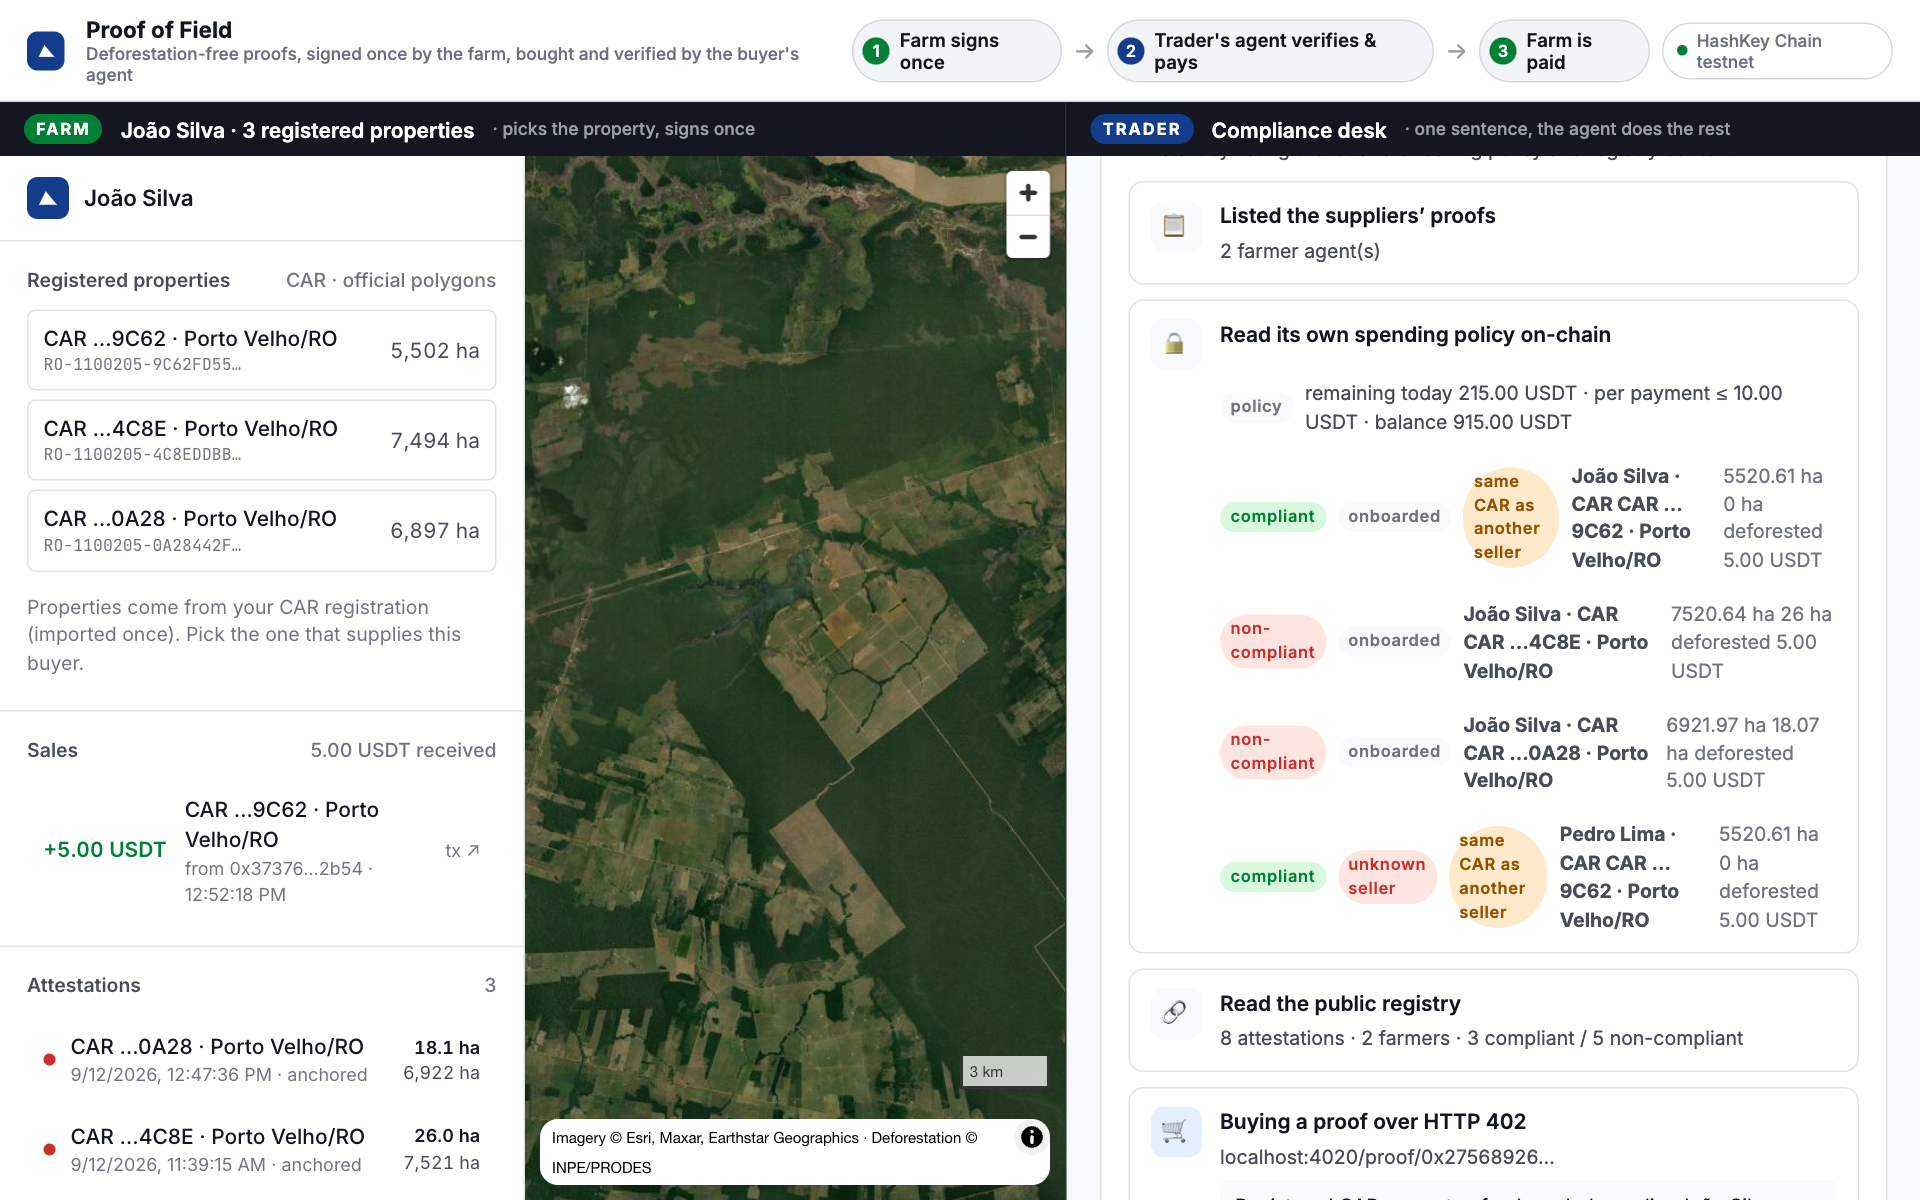
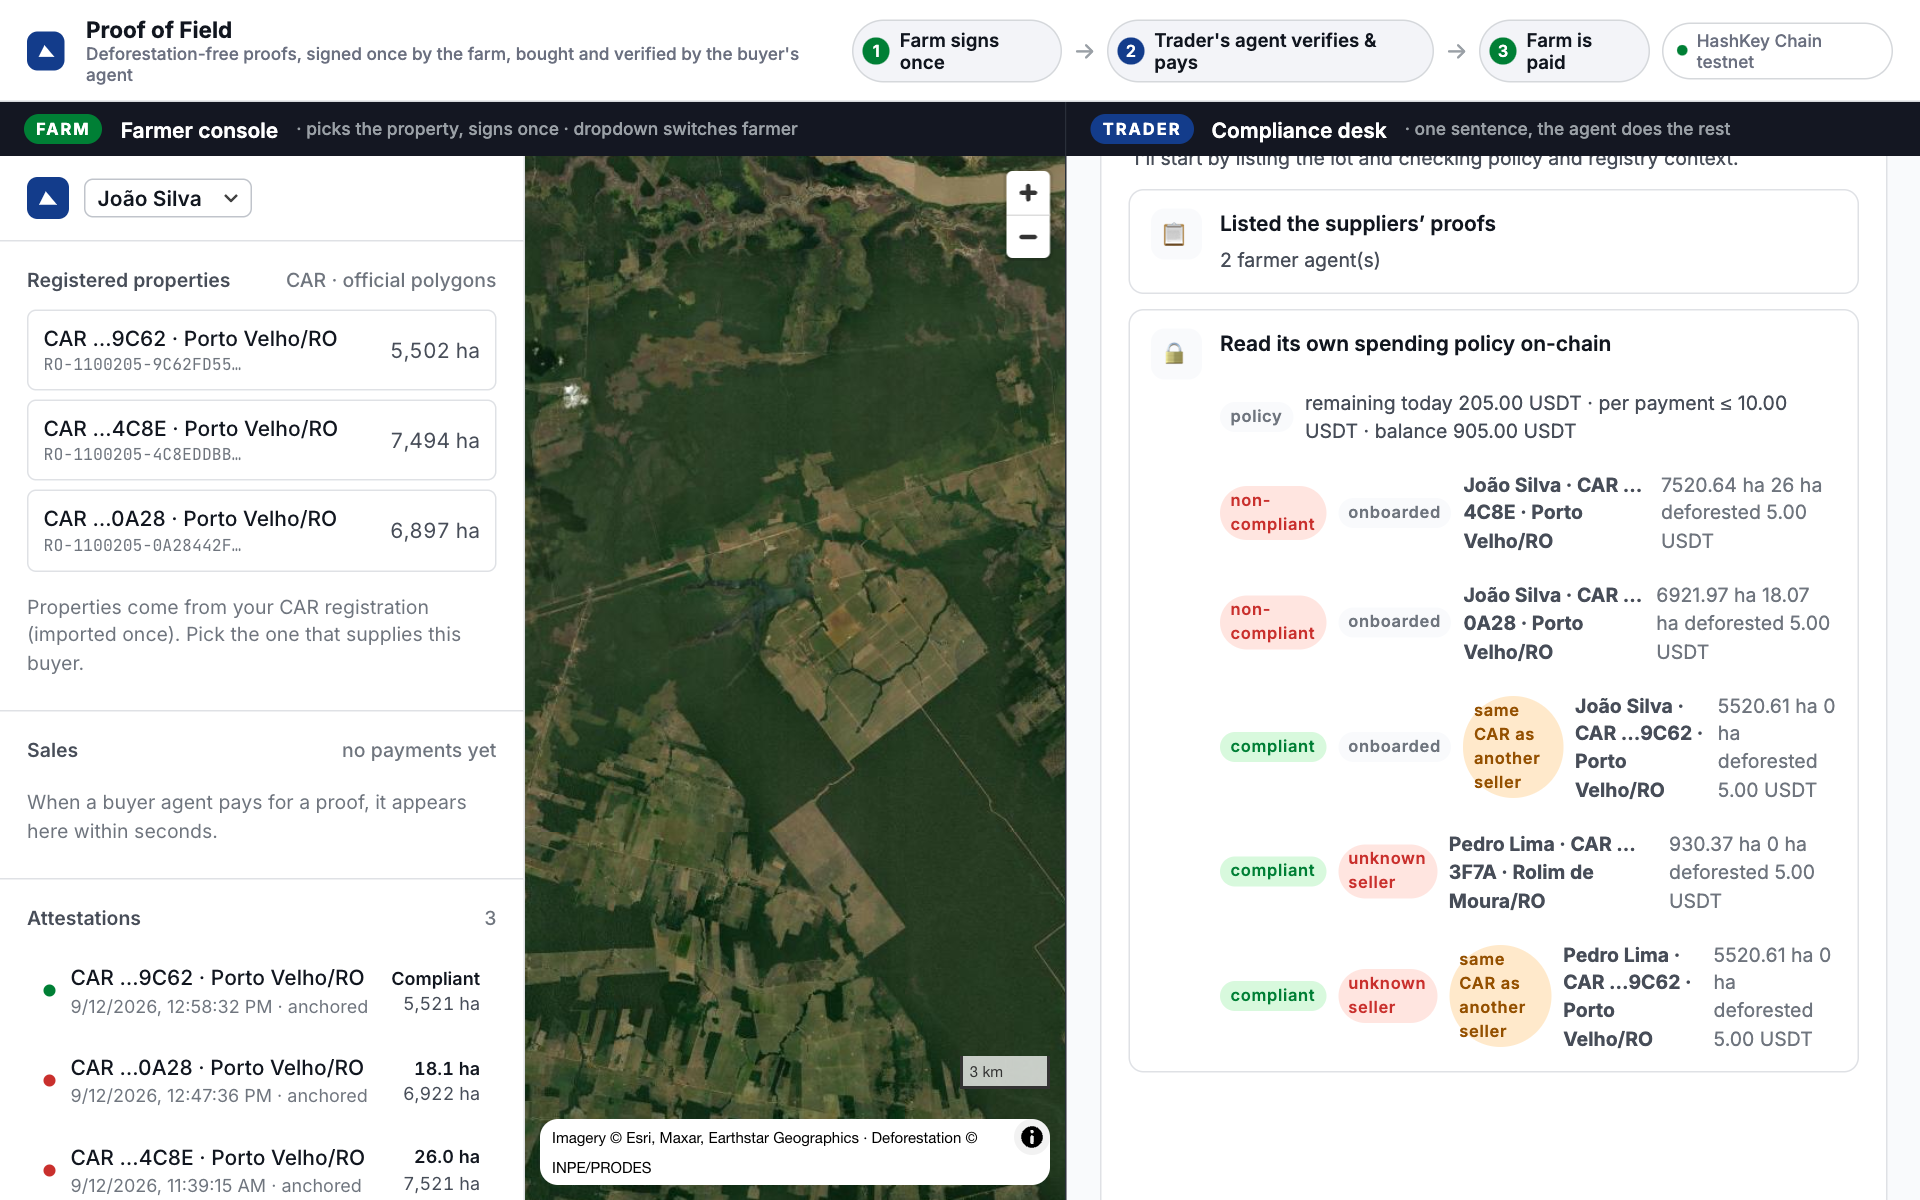
Pedro has his own (simulated) property; per-property selection in the buyer desk; latest attestation per property supersedes older listings

diff --git a/apps/buyer-agent/src/desk.ts b/apps/buyer-agent/src/desk.ts
@@ -30,9 +30,10 @@ app.get('/reports/latest', (c) => {
 app.get('/run', (c) => {
   const instruction = c.req.query('q') || '';
   const lot = (c.req.query('lot') || DEFAULT_LOT.join(',')).split(',').map((s) => s.trim()).filter(Boolean);
+  const only = (c.req.query('only') || '').split(',').map((s) => s.trim()).filter(Boolean);
   const before = fs.existsSync(REPORTS) ? new Set(fs.readdirSync(REPORTS)) : new Set<string>();
   return streamSSE(c, async (stream) => {
-    const child = spawn('npx', ['tsx', 'src/agent.ts', instruction, ...lot], { cwd: path.join(ROOT, 'apps', 'buyer-agent'), env: { ...process.env, NETWORK, FORCE_COLOR: '0' } });
+    const child = spawn('npx', ['tsx', 'src/agent.ts', instruction, ...lot], { cwd: path.join(ROOT, 'apps', 'buyer-agent'), env: { ...process.env, NETWORK, FORCE_COLOR: '0', ONLY_PROOFS: only.join(',') } });
     const send = (line: string) => stream.writeSSE({ event: 'log', data: JSON.stringify(strip(line)) });
     let buf = '';
     const onData = (d: Buffer) => { buf += d.toString(); const lines = buf.split('\n'); buf = lines.pop() || ''; lines.forEach((l) => send(l)); };
@@ -62,6 +63,14 @@ textarea{width:100%;min-height:74px;resize:vertical;border:1px solid var(--line-
 textarea:focus{outline:2px solid var(--primary);outline-offset:1px;border-color:transparent}
 .lot{display:flex;flex-wrap:wrap;gap:8px;margin-top:12px}.lot label{display:inline-flex;align-items:center;gap:7px;background:var(--panel);border:1px solid var(--line);border-radius:8px;padding:7px 11px;cursor:pointer;font-size:13.5px}.lot label b{font-weight:600}.lot label small{font-family:var(--mono);font-size:11px;color:var(--ink-3)}.lot input{margin:0;accent-color:var(--primary)}.lot .off{color:var(--bad);font-size:11px}
 .lot-h{font-size:12.5px;color:var(--ink-3);margin-top:12px}
+.sup{border:1px solid var(--line);border-radius:10px;padding:10px 12px;min-width:260px;flex:1}
+.sup .sh{display:flex;align-items:center;gap:8px;font-weight:600}.sup .sh small{font-family:var(--mono);font-size:11px;color:var(--ink-3);font-weight:400}
+.sup .props{display:flex;flex-direction:column;gap:5px;margin-top:8px;padding-left:2px}
+.sup .pr{display:flex;align-items:center;gap:8px;font-size:13px;color:var(--ink-2);cursor:pointer}
+.sup .pr input{margin:0;accent-color:var(--primary)}
+.sup .pill{font-size:10.5px;font-weight:600;letter-spacing:.04em;padding:1px 6px;border-radius:999px}
+.sup .pill.ok{background:var(--ok-soft);color:var(--ok)}.sup .pill.bad{background:var(--bad-soft);color:var(--bad)}
+.sup .off{color:var(--bad);font-size:11px}
 .row{display:flex;gap:10px;align-items:center;margin-top:12px}
 .btn{height:38px;padding:0 16px;border-radius:6px;border:1px solid transparent;background:var(--primary);color:#fff;font:500 14px Inter,system-ui,sans-serif;cursor:pointer}.btn:hover{background:var(--primary-hover)}.btn:disabled{opacity:.5;cursor:not-allowed}
 .hint{color:var(--ink-3);font-size:12.5px}
@@ -93,7 +102,7 @@ textarea:focus{outline:2px solid var(--primary);outline-offset:1px;border-color:
 <div class="wrap">
   <div class="card"><h2>Instruction to the buyer agent</h2>
     <textarea id="q">Verify these suppliers before we contract the harvest. Budget 30 USDT. Reject deforestation after 2020 or protected land.</textarea>
-    <div class="lot-h">Suppliers to verify (onboarded agents; tick who you want checked this run):</div>
+    <div class="lot-h">Suppliers and their properties (tick exactly what you want verified this run):</div>
     <div class="lot" id="lot"></div>
     <div class="row"><button class="btn" id="run">Run agent</button><span class="hint">Lists the suppliers, checks its own spending policy, buys and verifies each proof, writes the dossier. ~70 s.</span></div>
   </div>
@@ -106,9 +115,14 @@ textarea:focus{outline:2px solid var(--primary);outline-offset:1px;border-color:
 <script>
 const $=id=>document.getElementById(id);
 fetch('/config').then(r=>r.json()).then(async c=>{$('chip').textContent=c.network;window.__lot=c.lot;
- const items=await Promise.all(c.lot.map(async u=>{try{const i=await fetch(u+'/',{signal:AbortSignal.timeout(3000)}).then(r=>r.json());return {u,name:i.name||u,farmer:i.farmer,n:i.attestations};}catch{return {u,name:u,off:true};}}));
- $('lot').innerHTML=items.map(i=>'<label><input type="checkbox" value="'+i.u+'" '+(i.off?'':'checked')+'/> <b>'+i.name+'</b> <small>'+(i.farmer?i.farmer.slice(0,6)+'…'+i.farmer.slice(-4):i.u)+'</small>'+(i.off?' <span class="off">offline</span>':'')+'</label>').join('');});
-function selectedLot(){return [...document.querySelectorAll('#lot input:checked')].map(i=>i.value);}
+ const items=await Promise.all(c.lot.map(async u=>{try{const i=await fetch(u+'/',{signal:AbortSignal.timeout(3000)}).then(r=>r.json());const a=await fetch(u+'/attestations',{signal:AbortSignal.timeout(3000)}).then(r=>r.json());return {u,name:i.name||u,farmer:i.farmer,props:a};}catch{return {u,name:u,off:true,props:[]};}}));
+ $('lot').innerHTML=items.map(i=>'<div class="sup" data-u="'+i.u+'"><label class="sh"><input type="checkbox" class="supcb" '+(i.off?'':'checked')+'/> '+i.name+' <small>'+(i.farmer?i.farmer.slice(0,6)+'…'+i.farmer.slice(-4):'')+'</small>'+(i.off?' <span class="off">offline</span>':'')+'</label><div class="props">'+
+   (i.props.length?i.props.map(p=>'<label class="pr"><input type="checkbox" class="prcb" value="'+i.u+'/proof/'+p.hash+'" '+(i.off?'':'checked')+'/> '+(p.label||p.hash.slice(0,10))+' <span class="pill '+(p.compliant?'ok':'bad')+'">'+(p.compliant?'clean':(p.report&&p.report.deforestedHa?p.report.deforestedHa.toFixed(0)+' ha cleared':'non-compliant'))+'</span></label>').join(''):'<span class="off">no proofs offered</span>')+'</div></div>').join('');
+ document.querySelectorAll('.supcb').forEach(cb=>cb.addEventListener('change',e=>{e.target.closest('.sup').querySelectorAll('.prcb').forEach(x=>x.checked=e.target.checked);}));
+ document.querySelectorAll('.prcb').forEach(cb=>cb.addEventListener('change',e=>{const sup=e.target.closest('.sup');sup.querySelector('.supcb').checked=[...sup.querySelectorAll('.prcb')].some(x=>x.checked);}));
+});
+function selectedProofs(){return [...document.querySelectorAll('#lot .prcb:checked')].map(i=>i.value);}
+function selectedLot(){return [...new Set(selectedProofs().map(v=>v.split('/proof/')[0]))];}
 function cls(l){if(/^\\s*⚙/.test(l))return 't';if(/✔/.test(l))return 'ok';if(/✘|NON-COMPLIANT|UNKNOWN/.test(l))return 'bad';if(/^\\s{4,}/.test(l))return 'dim';return 'say';}
 
 $('rawt').onclick=()=>{const h=$('log').hidden;$('log').hidden=!h;$('rawt').textContent=h?'Hide raw agent log':'Show raw agent log';};
@@ -142,8 +156,8 @@ function handle(l){
   if(/^\\*\\*|^-\\s|^\\d\\.\\s|^#|^📊|^✔/.test(t)) return;
   const d=document.createElement('div');d.className='say';d.textContent=t;$('tl').appendChild(d);cur=null;
 }
-$('run').onclick=()=>{const q=$('q').value.trim();if(!q)return;const lot=selectedLot();if(!lot.length){alert('Tick at least one supplier');return;}$('run').disabled=true;$('logcard').hidden=false;$('repcard').hidden=true;$('log').textContent='';$('tl').innerHTML='';cur=null;$('st').innerHTML='<span class="spin"></span>Agent working…';
- const es=new EventSource('/run?q='+encodeURIComponent(q)+'&lot='+encodeURIComponent(lot.join(',')));
+$('run').onclick=()=>{const q=$('q').value.trim();if(!q)return;const lot=selectedLot();if(!lot.length){alert('Tick at least one property');return;}$('run').disabled=true;$('logcard').hidden=false;$('repcard').hidden=true;$('log').textContent='';$('tl').innerHTML='';cur=null;$('st').innerHTML='<span class="spin"></span>Agent working…';
+ const es=new EventSource('/run?q='+encodeURIComponent(q)+'&lot='+encodeURIComponent(lot.join(','))+'&only='+encodeURIComponent(selectedProofs().join(',')));
  es.addEventListener('log',e=>{const l=JSON.parse(e.data);if(!l.trim())return;const d=document.createElement('div');d.className=cls(l);d.textContent=l;$('log').appendChild(d);$('log').scrollTop=$('log').scrollHeight;try{handle(l);}catch(err){}});
  es.addEventListener('done',e=>{es.close();$('run').disabled=false;$('st').textContent='Done';const {report}=JSON.parse(e.data);
    const txt=$('log').textContent;const m=txt.match(/(\\d+) bought · (\\d+) skipped · ([\\d.]+) USDT spent/);
@@ -181,7 +195,7 @@ iframe{border:0;width:100%;height:100%;background:#fff}
 <div class="top"><div class="logo"><svg width="14" height="14" viewBox="0 0 16 16" fill="none"><path d="M2 12.5 6.5 3.5 14 12.5Z" fill="#fff"/></svg></div>
 <div class="name">Proof of Field<small>Deforestation-free proofs, signed once by the farm, bought and verified by the buyer's agent</small></div>
 <div class="steps"><span class="st ok"><i>1</i>Farm signs once</span><span class="arrow">→</span><span class="st"><i>2</i>Trader's agent verifies &amp; pays</span><span class="arrow">→</span><span class="st ok"><i>3</i>Farm is paid</span><span class="net"><b></b>HashKey Chain testnet</span></div></div>
-<div class="hdr farm"><span class="tag">FARM</span>João Silva · 3 registered properties <small>· picks the property, signs once</small></div>
+<div class="hdr farm"><span class="tag">FARM</span>Farmer console <small>· picks the property, signs once · dropdown switches farmer</small></div>
 <div class="hdr trader"><span class="tag">TRADER</span>Compliance desk <small>· one sentence, the agent does the rest</small></div>
 <div class="pane farm"><iframe src="http://localhost:5173" title="Farmer console"></iframe></div>
 <div class="pane"><iframe src="http://localhost:4030" title="Buyer desk"></iframe></div>

diff --git a/apps/buyer-agent/src/agent.ts b/apps/buyer-agent/src/agent.ts
@@ -39,7 +39,9 @@ const tools = [
     inputSchema: z.object({ farmerAgentUrls: z.array(z.string()).describe('Base URLs of the farmer agents in the lot') }),
     run: async ({ farmerAgentUrls }) => {
       tool('list_lot', `${farmerAgentUrls.length} farmer agent(s)`);
-      const { proofs, unreachable } = await listLot(farmerAgentUrls);
+      let { proofs, unreachable } = await listLot(farmerAgentUrls);
+      const only = (process.env.ONLY_PROOFS || '').split(',').map((x) => x.trim()).filter(Boolean);
+      if (only.length) proofs = proofs.filter((p) => only.includes(p.proofUrl));
       proofs.forEach((p) => dim(`      ${p.compliant ? 'COMPLIANT    ' : 'NON-COMPLIANT'} ${p.knownSupplier ? 'known   ' : 'UNKNOWN '}${p.carConflict ? 'CAR-CONFLICT ' : ''}${p.farmerName} · ${p.registered ? '' : 'unregistered '}${p.label || p.hash.slice(0, 12)}  ${p.areaHa} ha  ${p.deforestedHa} ha deforested  ${usdt(p.priceUnits)}`));
       unreachable.forEach((u) => console.log(pc.red(`      ✘ unreachable: ${u}`)));
       return JSON.stringify({ proofs: proofs.map((p) => ({ ...p, price: usdt(p.priceUnits) })), unreachable });
@@ -131,7 +133,7 @@ const runner = client.beta.messages.toolRunner({
   max_tokens: 16000,
   system,
   tools,
-  messages: [{ role: 'user', content: `Operator instruction: ${instruction}\n\nThe suppliers under review run these farmer agents:\n${lot.map((u) => `- ${u}`).join('\n')}` }],
+  messages: [{ role: 'user', content: `Operator instruction: ${instruction}\n\nThe suppliers under review run these farmer agents:\n${lot.map((u) => `- ${u}`).join('\n')}${process.env.ONLY_PROOFS ? `\n\nThe operator pre-selected specific properties; list_lot returns only those. Do not look for others.` : ''}` }],
   max_iterations: 20,
 });
 

diff --git a/apps/farmer-agent/src/index.ts b/apps/farmer-agent/src/index.ts
@@ -94,7 +94,13 @@ app.get('/samples', (c) => c.json(samples));
 /** fieldId → CAR receipt, so attestations of registered properties carry the registry reference. */
 const carByFieldId = new Map<string, string>(samples.map((s: any) => [fieldIdFromPolygon(s.geometry).toLowerCase(), s.car]));
 
-app.get('/attestations', (c) => c.json(Object.values(store).map(publicView)));
+/** Public listing: the latest attestation per property. Signing the same property again supersedes the previous listing. */
+function latestPerField() {
+  const byField = new Map<string, Stored>();
+  for (const s of Object.values(store)) { const k = s.attestation.fieldId.toLowerCase(); const cur = byField.get(k); if (!cur || s.createdAt > cur.createdAt) byField.set(k, s); }
+  return [...byField.values()].sort((a, b) => a.createdAt.localeCompare(b.createdAt));
+}
+app.get('/attestations', (c) => c.json(latestPerField().map(publicView)));
 
 /** Sales ledger: payments received for proofs (farmer's own view). */
 app.get('/payments', (c) => c.json({ payments, totalUnits: payments.reduce((t, p) => t + BigInt(p.amount), 0n).toString() }));

diff --git a/apps/web/src/lib/api.ts b/apps/web/src/lib/api.ts
@@ -12,6 +12,7 @@ const j = async <T,>(r: Response): Promise<T> => { if (!r.ok) throw new Error(`$
 /** Which farmer agent this console talks to. Each farm (or its co-op) runs its own agent with its own key. */
 export const FARMERS: { name: string; url: string }[] = [
   { name: 'João Silva', url: 'http://localhost:4020' },
+  { name: 'Pedro Lima', url: 'http://localhost:4022' },
 ];
 let base = (() => { try { const v = localStorage.getItem('pof.farmer'); return v && FARMERS.some((f) => f.url === v) ? v : FARMERS[0].url; } catch { return FARMERS[0].url; } })();
 export const getFarmerUrl = () => base;

diff --git a/STATUS.md b/STATUS.md
@@ -36,7 +36,7 @@ Precisa de `~/.foundry/bin` no PATH (o script já adiciona).
 
 - **PRODES ampliado**: RO, MT, GO (Amazônia + Cerrado), 103k polígonos, `./scripts/fetch-prodes.sh` (150 MB, fora do git). Cobertura por estado×bioma; fora → recusa.
 
-- **Impostor na demo**: Pedro Lima (porta 4022, chave FARMER3, sem gás, não cadastrado) vende o CAR do João. Agente marca UNKNOWN + CAR-CONFLICT e recusa. Comando da demo tem 2 URLs (4020 João, 4022 Pedro).
+- **Impostor na demo**: Pedro Lima (porta 4022, chave FARMER3, com gás, NÃO cadastrado) tem propriedade própria …3F7A (polígono simulado em Rolim de Moura, marcado simulated:true no samples.json) e também vende o CAR do João. Agente marca UNKNOWN + CAR-CONFLICT e recusa. Comando da demo tem 2 URLs (4020 João, 4022 Pedro).
 
 - **Áreas protegidas**: terras indígenas (FUNAI) e unidades de conservação (ICMBio/MMA) dos dois biomas entram na checagem (1.101 polígonos). TI e proteção integral reprovam; APA só alerta. Atestado ganhou `protectedHa100` (esquema novo; tudo re-atestado na HSK).
 - **Pitch**: manchete "portable proof"; slide 8 = caminho de adoção (cooperativas → bancos → tradings).
@@ -48,7 +48,7 @@ Precisa de `~/.foundry/bin` no PATH (o script já adiciona).
 ## PUBLICADO no Devfolio às 12:20 — continua editável até 15:00
 - https://devfolio.co/projects/proof-of-field-a49c · time no Devfolio: você + Afonso Fagundes.
 - Slide 4 = "onde vai o trabalho do intermediário" (coletar / checar / confiar / repetir). Slide 5 = "quem fala com quem, não há marketplace".
-- Demo: http://localhost:4030/demo (dois cliques). Lado FARM: João Silva com 3 propriedades; lado TRADER lista fornecedores por nome com checkbox. Ledger de vendas zerado.
+- Demo: http://localhost:4030/demo (dois cliques). Lado FARM: dropdown João Silva (3 propriedades) / Pedro Lima (1 própria + cópia). Lado TRADER: checkbox por propriedade dentro de cada fornecedor; lado TRADER lista fornecedores por nome com checkbox. Ledger de vendas zerado.
 
 ## VOCÊ precisa fazer (eu não consigo)
 1. **Devfolio**: criar conta e aplicar em https://eag-global-buildathon.devfolio.co (5 min). Na submissão marcar **Brazil Hackathon** + trilha EAG + **HSK Chain**.

diff --git a/docs/PITCH.md b/docs/PITCH.md
@@ -2,7 +2,7 @@
 
 ## Before walking up (checklist)
 - ONE browser tab, fullscreen: **http://localhost:4030/demo** (left = FARM, right = TRADER). Nothing else on screen.
-- Farm side: **João Silva**, three registered properties, none selected. Trader side: instruction pre-filled, two suppliers ticked by name (João Silva, Pedro Lima).
+- Farm side: dropdown on **João Silva** (three registered properties), none selected. Pedro Lima is the other option (one property of his own, plus João's CAR copied). Trader side: instruction pre-filled; under each supplier, every property ticked with its verdict pill. The trader can untick any property.
 - Sales ledger empty (STATUS.md has the command). Slides open in another window, fullscreen, on slide 1.
 - Backup only if the page breaks: terminal with `NETWORK=hsk-testnet pnpm buyer -- <proof URL>`.
 
@@ -27,7 +27,7 @@ Say this before the first click: **"Left is a farm. Right is a trading company. 
 **Click 1 · FARM (0:00).** Click the clean property (…9C62). Green verdict. → "The farm picks its registered property. The agent checks it against INPE, indigenous lands, conservation units. Clean."
 Click **Sign once & put the proof up for sale**. Blue banner appears. → "The farm signs once. Only the hash goes to HashKey Chain. The proof is now for sale to any buyer."
 
-**Click 2 · TRADER (0:25).** Point at the two ticked suppliers. → "These are the suppliers the trader already has contracts with; it ticks who to verify. One sentence: verify them before we contract, reject deforestation. That's all a human does." Click **Run agent**.
+**Click 2 · TRADER (0:25).** Point at the suppliers and their ticked properties. → "These are the suppliers the trader already has contracts with; it ticks who to verify. One sentence: verify them before we contract, reject deforestation. That's all a human does." Click **Run agent**.
 While the log streams (~70 s), say only these, pointing at the lines as they appear:
 - "It lists what the suppliers sell, and reads its own spending limit on-chain."
 - "It buys the clean one: 402, pays five USDT, verifies the signature and the registry itself."
